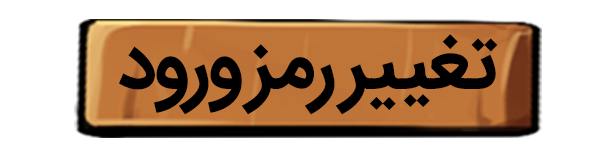
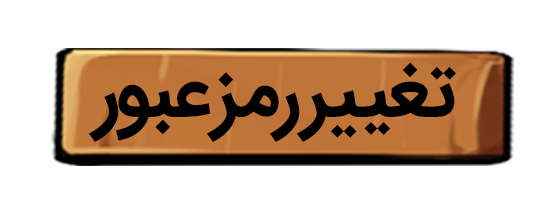
...

diff --git a/www/change-pass.html b/www/change-pass.html
@@ -1,0 +1,58 @@
+<ion-view>
+  <ion-content class="page-background" scroll="false">
+    <div class="myText" style="width: 100%;height: 100%">
+      <div id="main" class="row login-background" style="background: url('img/26-1.png');background-size: 90% 100% !important;">
+        <form name="confirmForm" novalidate ng-submit="submit(username)"
+              style="height: 100%;width: 100%;margin-top: 55%;margin-left: 15%;margin-right: 15%;">
+          <div style="height: 30px;display: block;text-align: right;width: 90%;background: url('img/26-6.png');
+          background-size: 70px;
+    background-repeat: no-repeat;
+    background-position-x: right;">
+          </div>
+          <div style="height: 50px">
+            <input type="text" id="code" name="code" ng-model="code"
+                   style="background: url(img/input-veify-02.png);width: 80%;height: 100%;background-size: 100% 100%;margin-left: 10%;padding-left: 40px;padding-right: 10px;background-repeat: no-repeat;background-position: center">
+          </div>
+          <div style="height: 30px;display: block;text-align: right;width: 90%;background: url('img/26-4.png');
+          background-size: 70px;
+    background-repeat: no-repeat;
+    background-position-x: right;">
+          </div>
+          <div style="height: 50px">
+            <input type="password" id="password" name="password" ng-model="password"
+                   class="myText" ng-minlength="6" ng-maxlength="50"
+                   style="background: url(img/input-01.png);width: 80%;height: 100%;background-size: 100% 100%;margin-left: 10%;padding-left: 40px;padding-right: 10px">
+          </div>
+          <div class="error-message myText"
+               ng-show="confirmForm.password.$error.minlength && confirmForm.password.$touched">&#1576;&#1585;&#1575;&#1740;&#32;&#1601;&#1740;&#1604;&#1583;&#32;&#1705;&#1604;&#1605;&#1607;&#32;&#1593;&#1576;&#1608;&#1585;&#32;&#1581;&#1583;&#1575;&#1602;&#1604;&#32;&#54;&#32;&#1705;&#1575;&#1585;&#1575;&#1705;&#1578;&#1585;&#32;&#1608;&#1575;&#1585;&#1583;&#32;&#1705;&#1606;&#1740;&#1583;</div>
+          <div class="error-message myText"
+               ng-show="confirmForm.password.$error.maxlength && confirmForm.password.$touched">برای فیلد کلمه عبور
+            حداکثر
+            50 کاراکتر وارد کنید
+          </div>
+
+          <div style="height: 30px;display: block;text-align: right;width: 90%;background: url('img/26-7.png');
+          background-size: 70px;
+    background-repeat: no-repeat;
+    background-position-x: right;">
+          </div>
+          <div style="height: 50px">
+            <input type="password" id="confirmPass" name="confirmPass"
+                   ng-model="confirmPass" class="myText"
+                   ng-change="checkPassword(confirmForm,password,confirmPass)" required
+                   style="background: url(img/input-01.png);width: 80%;height: 100%;background-size: 100% 100%;margin-left: 10%;padding-left: 40px;padding-right: 10px">
+          </div>
+          <div class="error-message myText"
+               ng-show="confirmForm.confirmPass.$error.validity && confirmForm.confirmPass.$touched">&#1601;&#1740;&#1604;&#1583;&#32;&#1578;&#1705;&#1585;&#1575;&#1585;&#32;&#1705;&#1604;&#1605;&#1607;&#32;&#1593;&#1576;&#1608;&#1585;&#32;&#1576;&#1575;&#32;&#1705;&#1604;&#1605;&#1607;&#32;&#1593;&#1576;&#1608;&#1585;&#32;&#1576;&#1575;&#1740;&#1583;&#32;&#1576;&#1585;&#1575;&#1576;&#1585;&#32;&#1576;&#1575;&#1588;&#1583;</div>
+
+
+          <button type="submit" ng-disabled="confirmForm.$invalid" class="row login-btn"
+                  style="background: url(img/7-signup-4.png);float: right;margin-top: 30px;
+    margin-right: -15px;">
+          </button>
+        </form>
+
+      </div>
+    </div>
+  </ion-content>
+</ion-view>

diff --git a/www/forget.html b/www/forget.html
@@ -2,7 +2,7 @@
   <ion-content class="page-background" scroll="false">
     <div class="myText" style="width: 100%;height: 100%">
       <div id="main" class="row login-background" style="background: url('img/change-password.png');">
-        <form name="forgetForm" ng-show="forgetPassCodeForm" novalidate ng-submit="submit(username)"
+        <form name="forgetForm" ng-show="!forgetPassCodeForm" novalidate ng-submit="submit(username)"
               style="height: 100%;width: 100%;margin-top: 60%;margin-left: 15%;margin-right: 15%;">
           <div style="height: 30px;display: block;text-align: right;width: 90%;background: url('img/17-login-right5.png');
           background-size: 70px;
@@ -25,7 +25,7 @@
 
 
 
-        <form name="confirmForm" ng-show="!forgetPassCodeForm" novalidate ng-submit="submit(username)"
+        <form name="confirmForm" ng-show="forgetPassCodeForm" novalidate ng-submit="submit(username)"
               style="height: 100%;width: 100%;margin-top: 60%;margin-left: 15%;margin-right: 15%;">
           <div style="height: 35px;display: block;text-align: right;width: 78%;background: url('img/20-title.png');
           background-size: 70px;

diff --git a/www/js/controllers.js b/www/js/controllers.js
@@ -1332,6 +1332,11 @@ angular.module('starter.controllers', [])
     }
   })
   .controller('ProfileCtrl', function ($scope, $state, $rootScope, $http, menuService, $ionicHistory, $timeout) {
+      $scope.changePass = function () {
+        $state.go("change-pass");
+      }
+  })
+  .controller('ChangePassCtrl', function ($scope, $state, $rootScope, $http, menuService, $ionicHistory, $timeout) {
 
   })
   .controller('RanksCtrl', function ($scope, $state, $rootScope, $http, menuService, $ionicHistory, $timeout) {

diff --git a/www/profile.html b/www/profile.html
@@ -21,7 +21,7 @@
     background-position-x: center;
     margin-top: 8px;">
         </div>
-        <div class="col grid-example s6" style="background: url('img/21-9.png');background-size: 80% 60%;margin-right: 40px;
+        <div ng-click="changePass()" class="col grid-example s6" style="background: url('img/21-9.png');background-size: 80% 60%;margin-right: 40px;
     background-repeat: no-repeat;
     background-position-y: center;
     background-position-x: center;

diff --git a/www/js/app.js b/www/js/app.js
@@ -343,6 +343,11 @@ var app = angular.module('starter', ['ionic', 'starter.controllers', 'starter.se
         controller: 'ProfileCtrl',
         templateUrl: 'profile.html'
       })
+      .state('change-pass', {
+        url: '/change-pass',
+        controller: 'ChangePassCtrl',
+        templateUrl: 'change-pass.html'
+      })
       .state('signup', {
         url: '/signup',
         controller: 'SignupCtrl',
